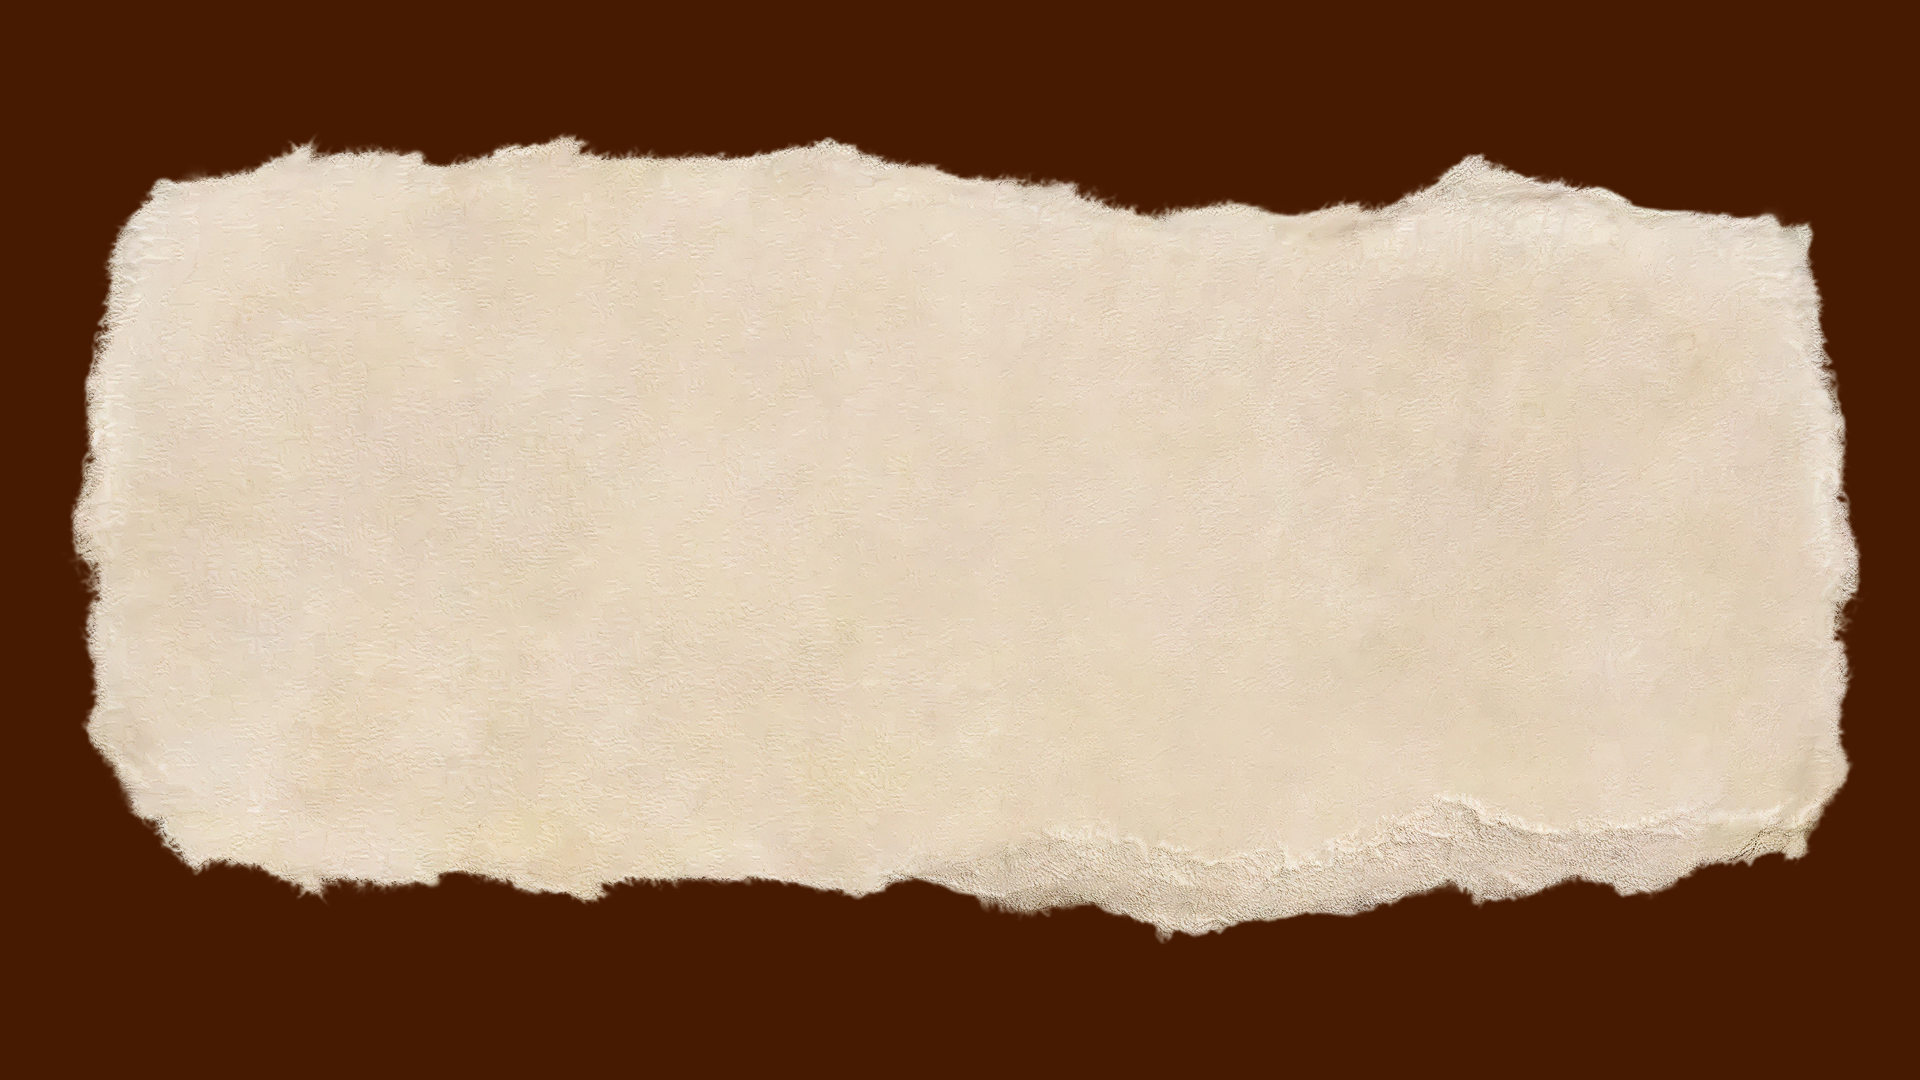
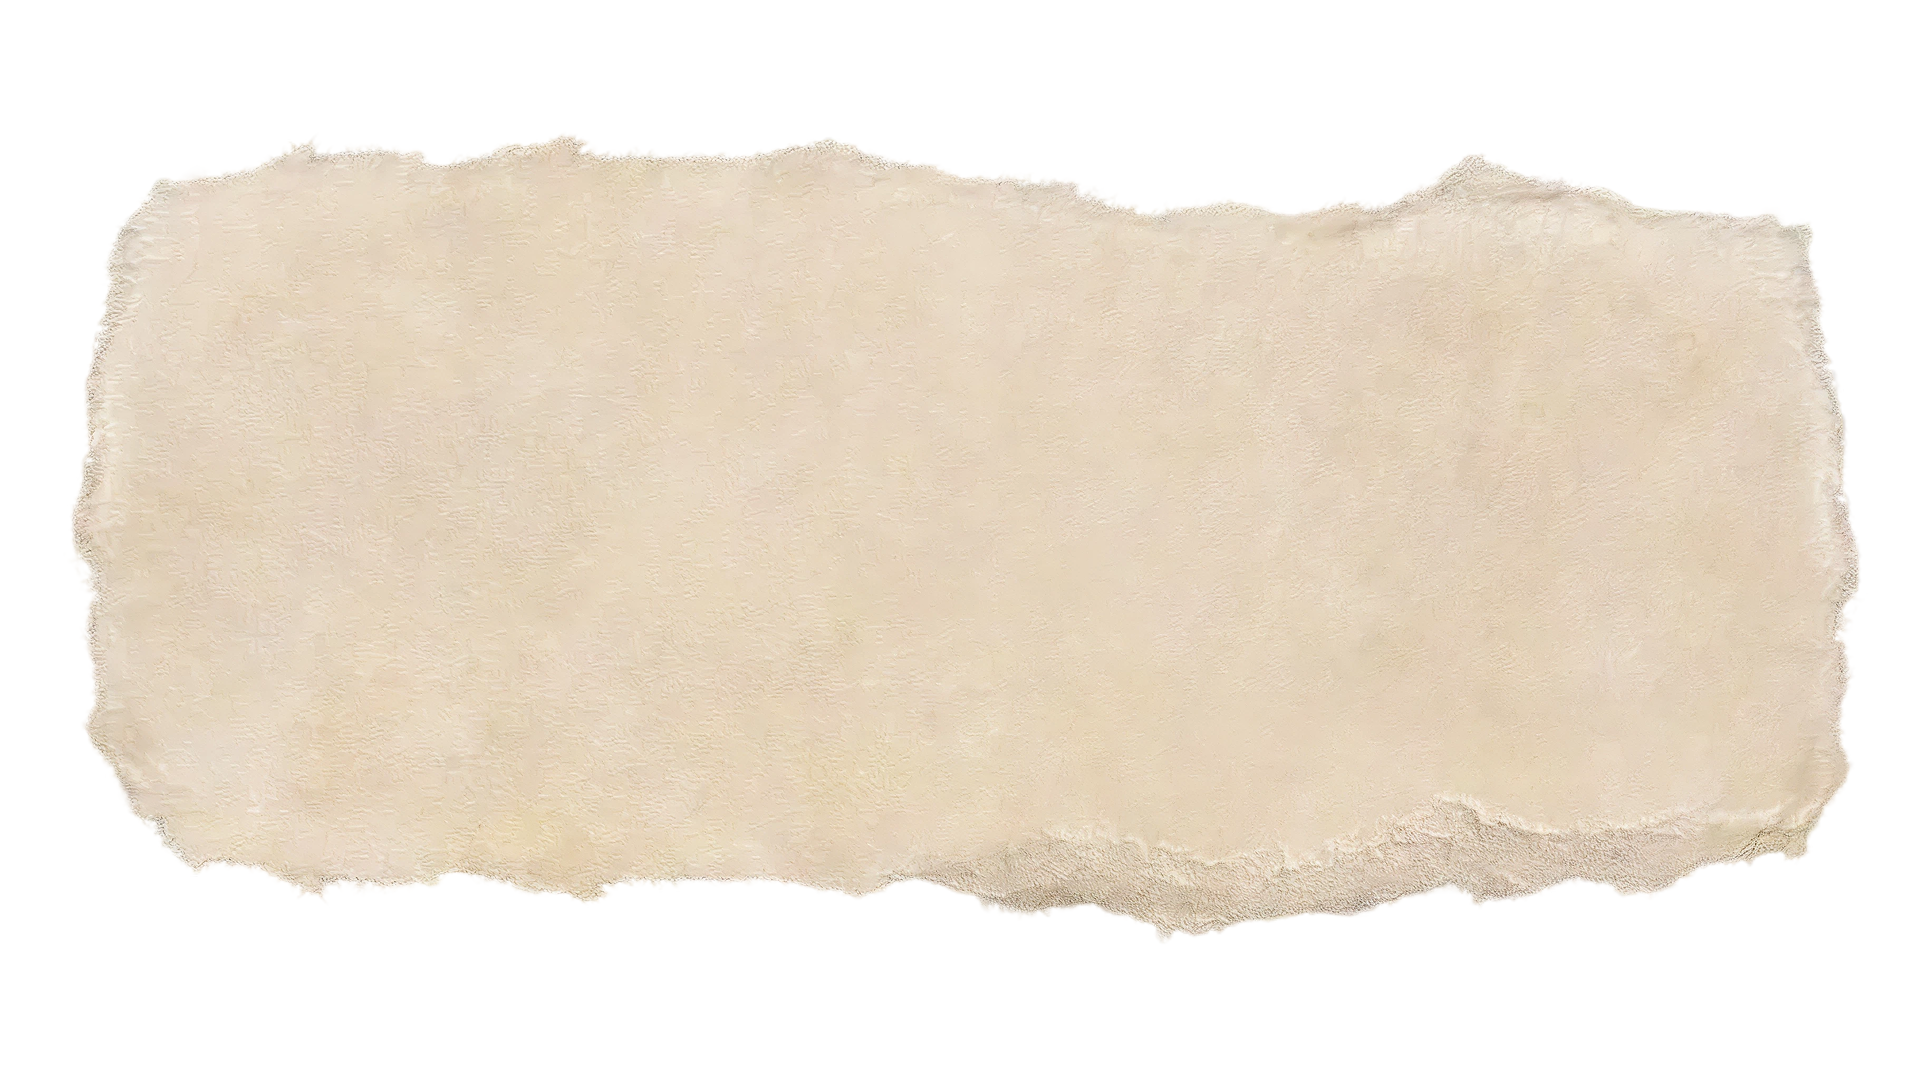
bg changed, spacing changed

diff --git a/src/screens/Screen0.jsx b/src/screens/Screen0.jsx
@@ -3,27 +3,27 @@ import React from "react";
 const Screen0 = ({ onStartClick }) => {
   return (
     <div
-      className="min-h-screen bg-[#461A00] flex flex-col justify-center items-cente relative overflow-hidden font-crimson bg-cover bg-center bg-no-repeat"
+      className="min-h-screen bg-[#ffffff] flex flex-col justify-center items-cente relative overflow-hidden font-crimson bg-cover bg-center bg-no-repeat"
       style={{
-        backgroundImage: "url('/bg.png')",
+        backgroundImage: "url('/bg1.png')",
         backgroundAttachment: "fixed",
         backgroundSize: "cover",
       }}
     >
       <div className="text-center z-10 animate-fade-in">
-        <h1 className="text-7xl font-luxurious text-dark-brown mb-2 tracking-tight drop-shadow-md">
+        <h1 className="text-8xl font-luxurious text-dark-brown mb-1 tracking-tight drop-shadow-md">
           Dearest &nbsp; Valentine
         </h1>
-        <p className="text-3xl italic tracking-tight font-linden-hill text-medium-brown mb-16 font-light">
+        <p className="text-4xl italic tracking-tight font-linden-hill text-medium-brown mb-8 font-light">
           A Bridgerton Affair
         </p>
 
         <a
-          className="relative w-64 h-36 mx-auto bg-cover bg-center bg-no-repeat hover:scale-105 transition-transform duration-200 cursor-pointer flex items-center justify-center"
+          className="relative scale-75 w-64 h-36 mx-auto bg-cover bg-center bg-no-repeat hover:scale-85 transition-transform duration-200 cursor-pointer flex items-center justify-center"
           style={{ backgroundImage: "url('/button-bg.png')" }}
           onClick={onStartClick}
         >
-          <span className="font-metal text-[40px] text-black leading-normal">
+          <span className="font-linden-hill text-[36px] text-dark-brown leading-normal">
             Get Started
           </span>
         </a>
